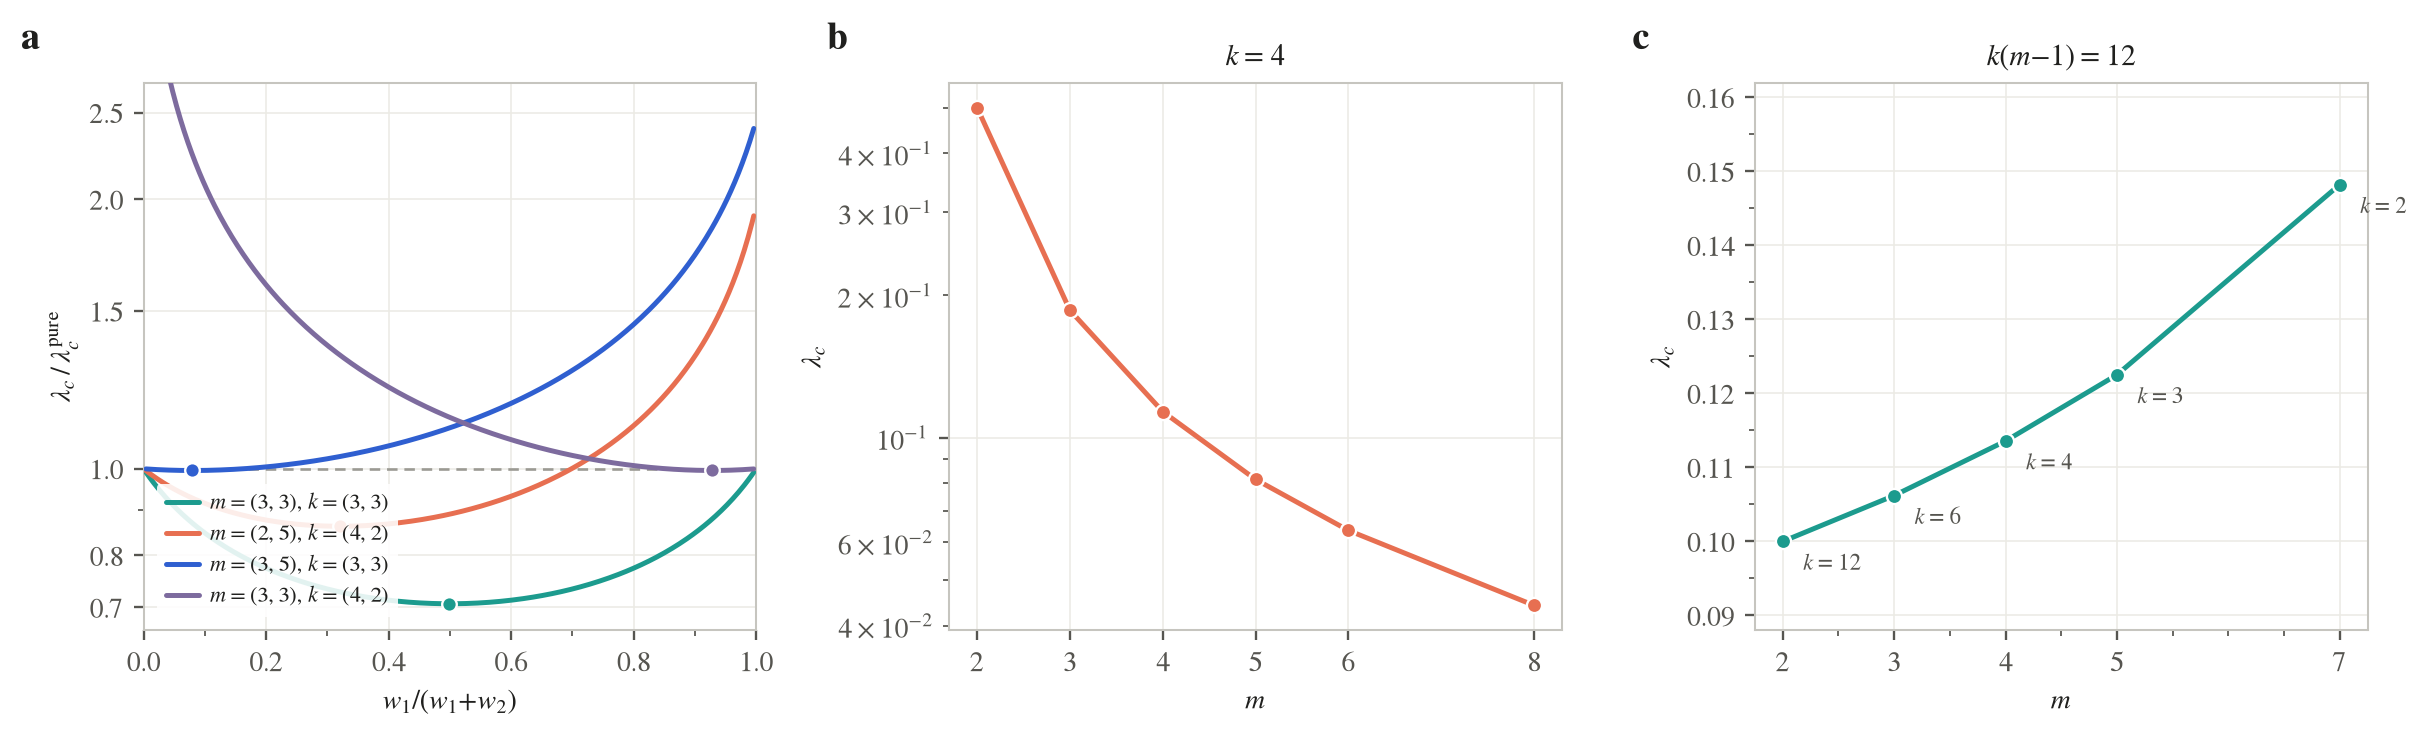
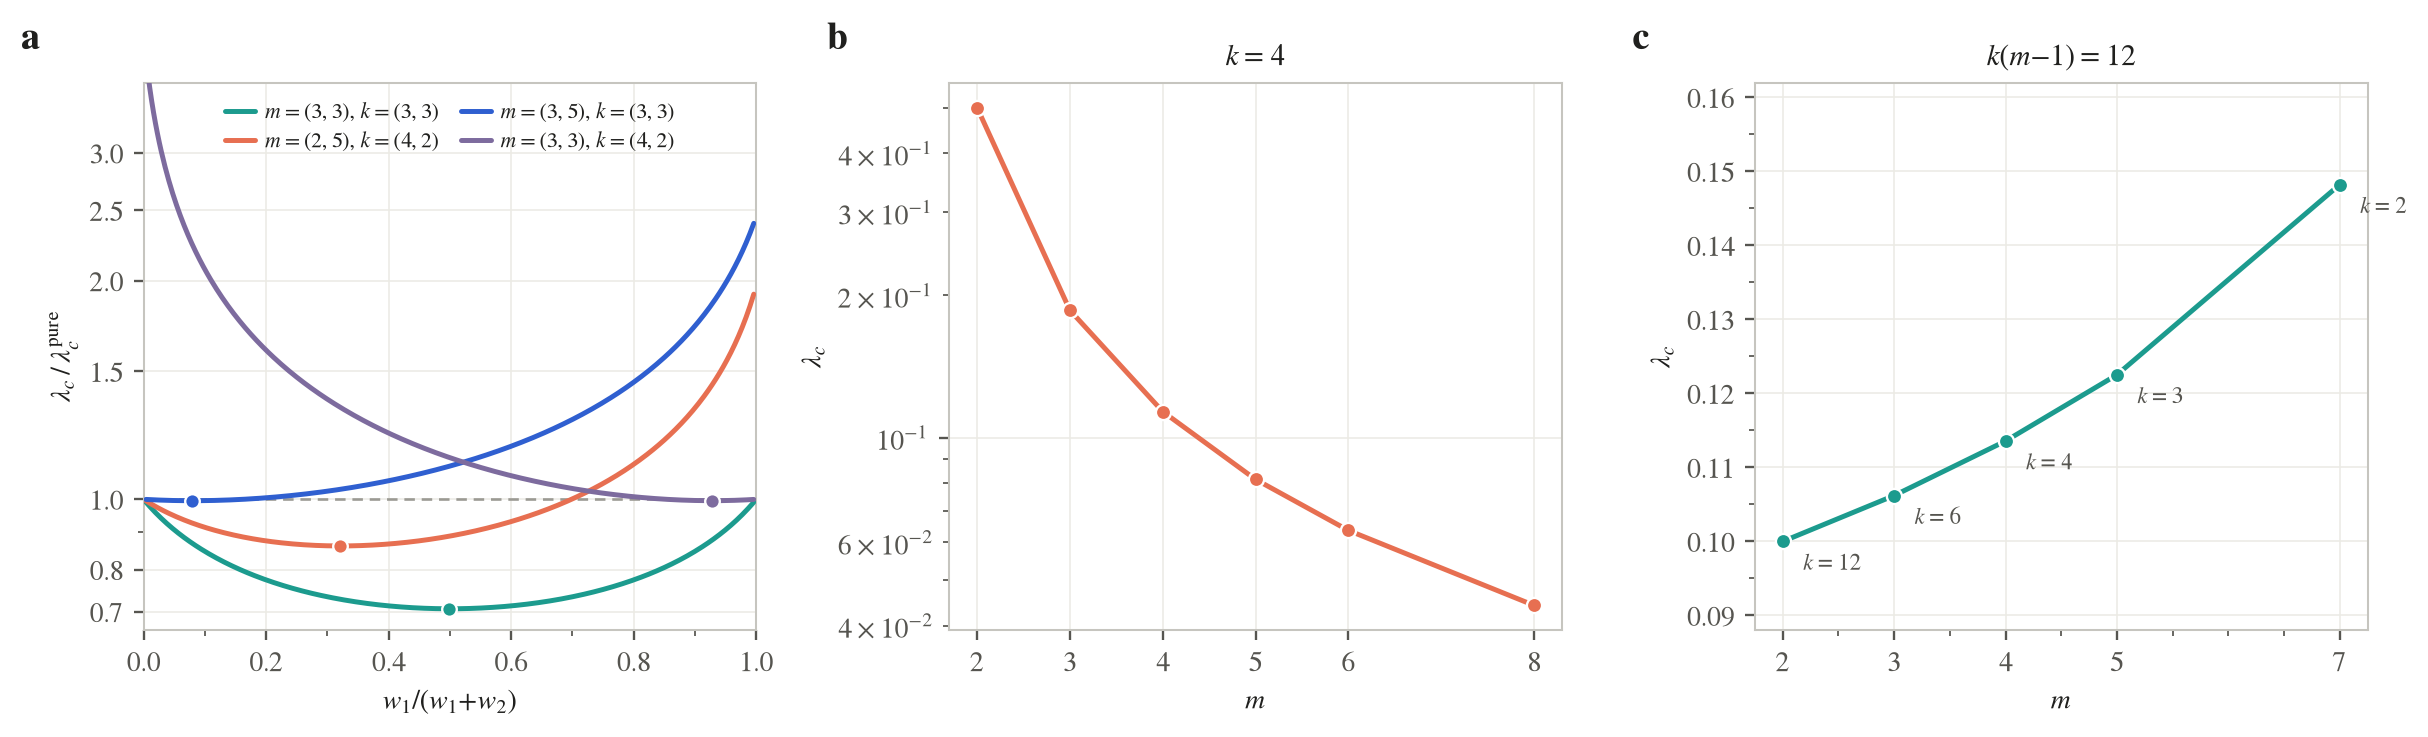
Figure 6a: move legend clear of the curves
The lower-left legend sat on top of the teal and coral curves. Raise the log
y-limit to open headroom above every curve and set the legend two-column at
upper centre, so nothing is occluded.

Claude-Session: https://claude.ai/code/session_01GMqZS1ZXii3SRe677Qn7Mk

diff --git a/multiplex-hypergraph-sir/figure6_design.py b/multiplex-hypergraph-sir/figure6_design.py
@@ -93,17 +93,16 @@ def main():
     axA.axhline(1.0, color=MUTED, lw=0.9, ls=(0, (4, 2.6)), zorder=2)
     axA.set_xlim(0, 1)
     axA.set_yscale("log")
-    axA.set_ylim(0.66, 2.7)
-    axA.set_yticks([0.7, 0.8, 1.0, 1.5, 2.0, 2.5])
-    axA.set_yticklabels(["0.7", "0.8", "1.0", "1.5", "2.0", "2.5"])
+    axA.set_ylim(0.66, 3.75)          # headroom so the legend clears every curve
+    axA.set_yticks([0.7, 0.8, 1.0, 1.5, 2.0, 2.5, 3.0])
+    axA.set_yticklabels(["0.7", "0.8", "1.0", "1.5", "2.0", "2.5", "3.0"])
     axA.set_xlabel(r"$w_1/(w_1{+}w_2)$")
     axA.set_ylabel(r"$\lambda_c\,/\,\lambda_c^{\mathrm{pure}}$")
     axA.xaxis.set_minor_locator(AutoMinorLocator(2))
     axA.tick_params(which="both", top=False, right=False)
-    axA.legend(loc="lower left", fontsize=7.6, handlelength=1.5,
-               handletextpad=0.5, labelspacing=0.4, borderaxespad=0.6,
-               frameon=True, facecolor="white", framealpha=0.88,
-               edgecolor="none")
+    axA.legend(loc="upper center", ncol=2, fontsize=7.4, handlelength=1.4,
+               handletextpad=0.45, labelspacing=0.35, columnspacing=1.0,
+               borderaxespad=0.5)
     tag(axA, "a")
 
     # ============================== (b) granularity at fixed groups-per-node
